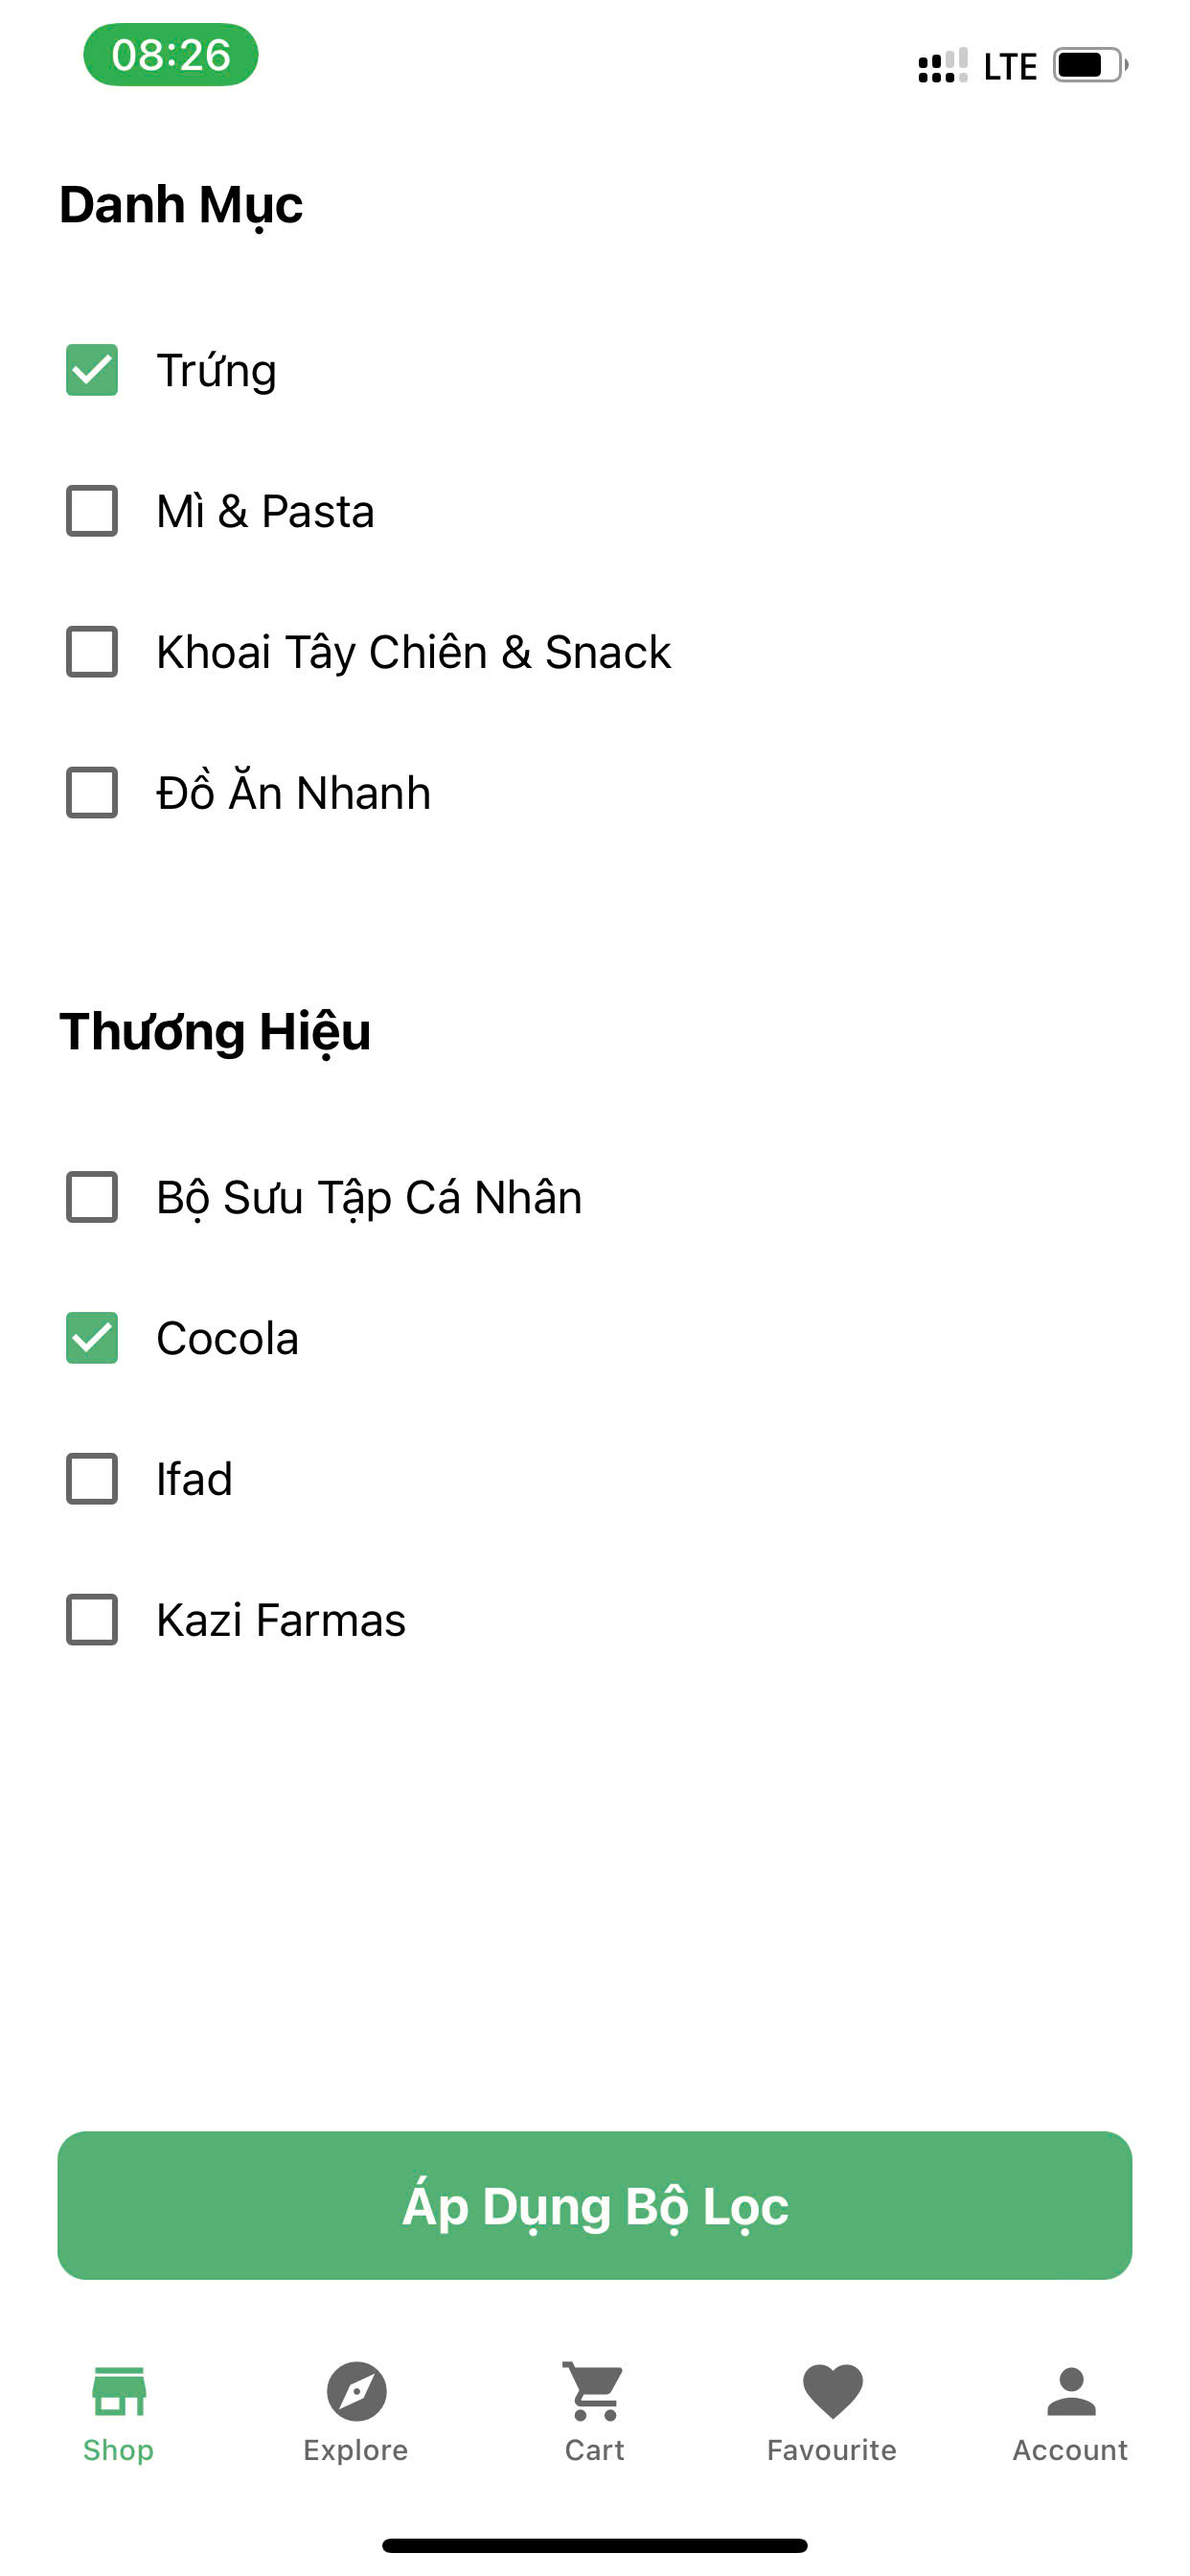
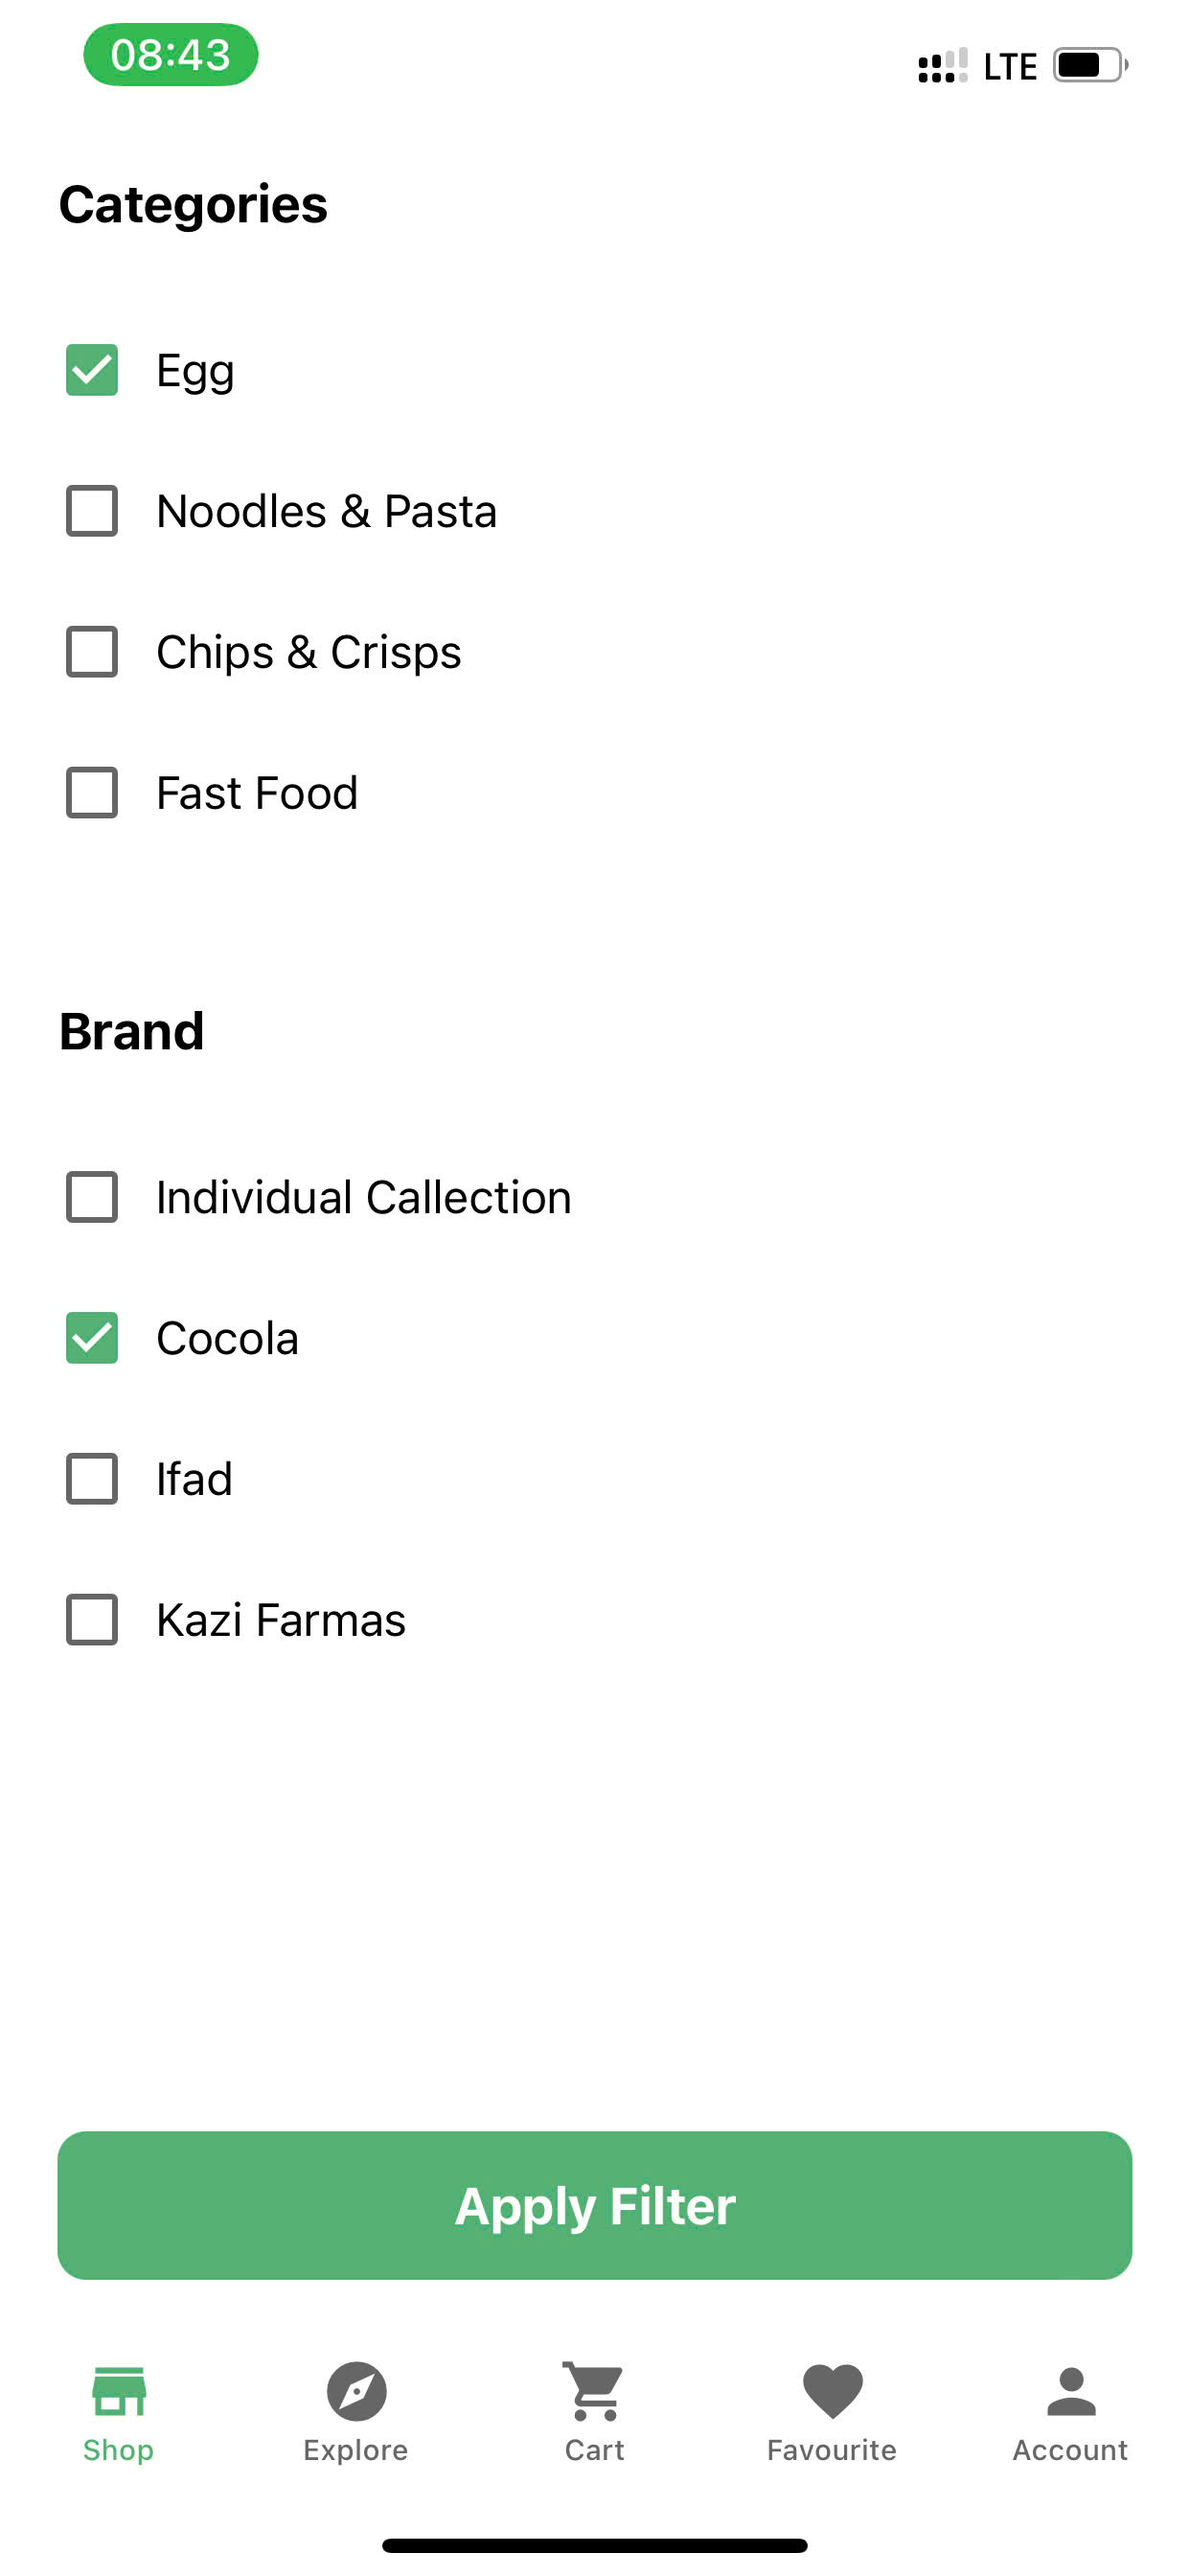
update filters pages

diff --git a/screens/FilterScreen.js b/screens/FilterScreen.js
@@ -118,7 +118,7 @@ const FilterScreen = ({ navigation }) => {
       </ScrollView>
 
       <TouchableOpacity style={styles.applyButton} onPress={applyFilters}>
-        <Text style={styles.applyButtonText}>Áp Dụng Bộ Lọc</Text>
+        <Text style={styles.applyButtonText}>Apply Filter</Text>
       </TouchableOpacity>
     </View>
   );
